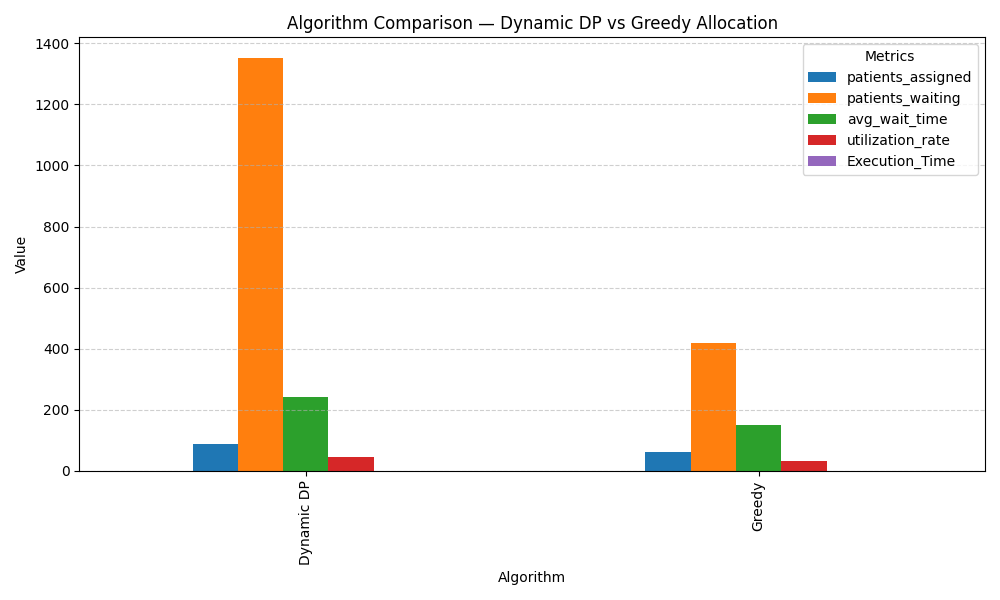
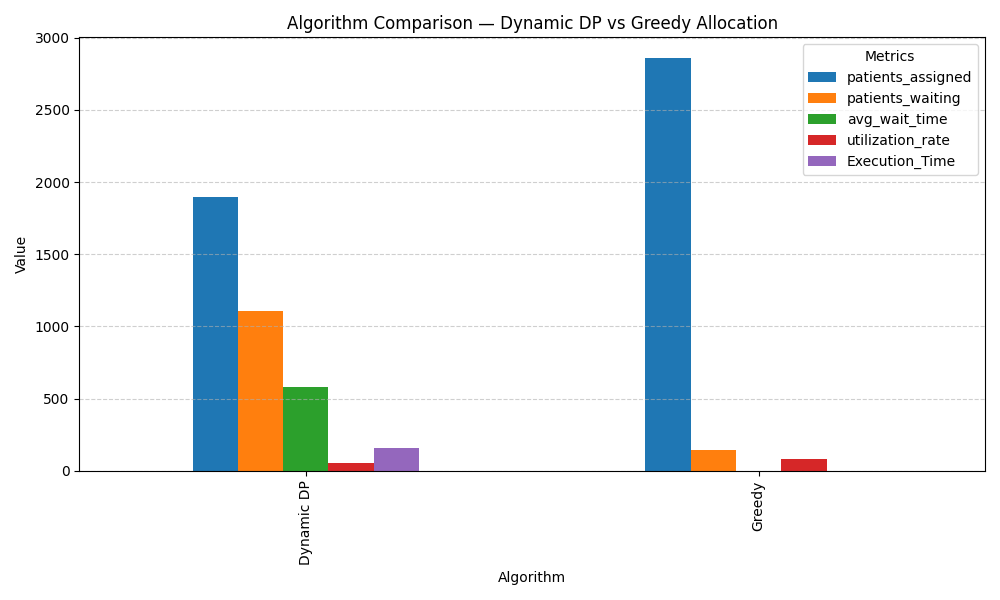
alpha added

diff --git a/compare_algos.py b/compare_algos.py
@@ -5,25 +5,19 @@ import matplotlib.pyplot as plt
 import time
 import sys
 
-# ============================================================
-# Force UTF-8 encoding on Windows terminals
-# ============================================================
+
 try:
     sys.stdout.reconfigure(encoding='utf-8')
 except Exception:
     pass
 
-# ============================================================
-# CONFIG — scripts and display names
-# ============================================================
+
 scripts = {
     "Dynamic DP": "dynamic_algo.py",
     "Greedy": "greedy_allocation.py"
 }
 
-# ============================================================
-# Function to run and parse script output
-# ============================================================
+
 def run_and_parse(script_name):
     print(f"\nRunning {script_name}...\n")
     start = time.time()
@@ -37,25 +31,24 @@ def run_and_parse(script_name):
             errors='ignore'
         )
         end = time.time()
-        exec_time = round(end - start, 2)
+        exec_time_sec = end - start
+        exec_time_ms = round(exec_time_sec * 1000, 2)  # convert to milliseconds
     except Exception as e:
         print(f"Error running {script_name}: {e}")
-        return {"Execution_Time": None}
+        return {"Execution_Time_ms": None}
 
     if result.returncode != 0:
         print(f"Error running {script_name} (exit code {result.returncode})")
         print("STDERR:\n", result.stderr)
         print("STDOUT:\n", result.stdout)
-        return {"Execution_Time": exec_time}
+        return {"Execution_Time_ms": exec_time_ms}
 
     output = result.stdout
 
-    # Extract key-value pairs like: patients_assigned : 47
     pattern = r"([a-zA-Z_]+)\s*:\s*([0-9.]+|N/A)"
     matches = re.findall(pattern, output)
     metrics = {k: v for k, v in matches}
 
-    # Convert numbers
     for k, v in metrics.items():
         if v != "N/A":
             try:
@@ -63,50 +56,52 @@ def run_and_parse(script_name):
             except ValueError:
                 pass
 
-    metrics["Execution_Time"] = exec_time
+    metrics["Execution_Time_ms"] = exec_time_ms
     return metrics
 
 
-# ============================================================
-# Run all algorithms
-# ============================================================
+# Run all scripts
 results = {}
 for name, script in scripts.items():
     results[name] = run_and_parse(script)
 
-# ============================================================
-# Create DataFrame of results
-# ============================================================
+# Create DataFrame
 df = pd.DataFrame(results).T
 print("\n=== COMPARISON TABLE ===\n")
 print(df.to_string())
 
-# Save CSV file
 df.to_csv("algorithm_comparison.csv", index=True)
 print("\nResults saved as 'algorithm_comparison.csv'")
 
-# ============================================================
-# Visualization
-# ============================================================
+# Metrics to plot
 metrics_to_plot = [
     "patients_assigned",
     "patients_waiting",
     "avg_wait_time",
     "utilization_rate",
     "total_urgency_served",
-    "Execution_Time"
+    "Execution_Time_ms"
 ]
 
 available = [m for m in metrics_to_plot if m in df.columns]
 df_plot = df[available]
 
+# Plot chart
 if not df_plot.empty:
-    df_plot.plot(kind="bar", figsize=(10,6))
+    ax = df_plot.plot(kind="bar", figsize=(10,6))
     plt.title("Algorithm Comparison — Dynamic DP vs Greedy Allocation")
     plt.ylabel("Value")
     plt.xlabel("Algorithm")
     plt.legend(title="Metrics")
     plt.grid(axis="y", linestyle="--", alpha=0.6)
+
+    # Annotate execution time bars at the bottom
+    for p in ax.patches:
+        height = p.get_height()
+        if p.get_x() % 1 == 0:  # rough check for bar
+            ax.annotate(f'{height}', (p.get_x() + p.get_width()/2, height),
+                        ha='center', va='bottom', fontsize=8, rotation=90)
+
     plt.tight_layout()
     plt.savefig("algorithm_comparison.png")
     plt.show()
@@ -114,9 +109,7 @@ if not df_plot.empty:
 else:
     print("\nNo valid metrics found to plot.")
 
-# ============================================================
-# Print time complexities and recommendations
-# ============================================================
+# Time complexities and insights
 print("\n=== TIME COMPLEXITIES ===")
 print("Dynamic DP : O(n × t) — depends on number of patients × time slots")
 print("Greedy     : O(n log n) — sorting + allocation decisions")

diff --git a/dynamic_algo.py b/dynamic_algo.py
@@ -9,15 +9,16 @@ warnings.filterwarnings("ignore")
 class TimeIndexedDP:
     """
     Time-indexed Dynamic Programming for patient scheduling.
-    Discretizes time into slots and tracks availability of resources (doctors, ICU).
+    Considers both urgency and wait time in allocation.
     """
 
-    def __init__(self, num_doctors=10, num_icu=5, total_time_hours=8, slot_minutes=15):
+    def __init__(self, num_doctors=10, num_icu=5, total_time_hours=8, slot_minutes=15, alpha=0.2):
         self.num_doctors = num_doctors
         self.num_icu = num_icu
         self.total_time_hours = total_time_hours
         self.slot_minutes = slot_minutes
         self.num_slots = (total_time_hours * 60) // slot_minutes
+        self.alpha = alpha  # weight for wait time in priority score
 
     def allocate_resources(self, df):
         """Main allocation logic using time-indexed DP."""
@@ -52,19 +53,24 @@ class TimeIndexedDP:
         return metrics, all_assignments
 
     def _run_dp_for_resource(self, patients, num_resources):
-        """Heuristic time-indexed DP for each resource type."""
+        """Time-indexed DP for each resource type considering urgency + wait time."""
         if len(patients) == 0:
             return [], 0.0
 
         resource_free_time = [0] * num_resources
         assignments, total_urgency = [], 0.0
 
-        # Prioritize by urgency
-        patient_indices = list(range(len(patients)))
-        patient_indices.sort(key=lambda i: -patients.loc[i, 'urgency_score'])
+        # Initially compute priority score
+        patients['priority_score'] = patients['urgency_score']  # initial
 
-        for patient_idx in patient_indices:
+        patient_indices = list(range(len(patients)))
+
+        while patient_indices:
+            # Sort patients dynamically by priority (urgency + alpha * expected wait)
+            patient_indices.sort(key=lambda i: -patients.loc[i, 'priority_score'])
+            patient_idx = patient_indices.pop(0)
             patient = patients.loc[patient_idx]
+
             arrival_slot = patient['arrival_slot']
             duration_slots = patient['duration_slots']
             urgency = patient['urgency_score']
@@ -93,6 +99,13 @@ class TimeIndexedDP:
                 resource_free_time[best_resource] = best_start_slot + duration_slots
                 total_urgency += urgency
 
+                # Update priority scores of remaining patients based on their expected wait
+                for i in patient_indices:
+                    p = patients.loc[i]
+                    # estimated wait = max(0, earliest free slot across resources - arrival slot)
+                    est_wait = max(0, min(resource_free_time) - p['arrival_slot'])
+                    patients.at[i, 'priority_score'] = p['urgency_score'] + self.alpha * est_wait
+
         return assignments, total_urgency
 
     def _calculate_metrics(self, df, assignments, sim_start, sim_end, total_urgency):
@@ -105,11 +118,8 @@ class TimeIndexedDP:
 
         for a in assignments:
             p = df[df['patient_id'] == a['patient_id']].iloc[0]
-
-            # ✅ Convert numpy.int64 → int to avoid TypeError
             start_slot = int(a['start_slot'])
             start_time = sim_start + timedelta(minutes=start_slot * int(self.slot_minutes))
-
             wait = (start_time - p['arrival_time']).total_seconds() / 60
             wait_times.append(max(0, wait))
             treatment_minutes[p['resource_type']] += float(a['duration_minutes'])
@@ -138,7 +148,6 @@ class TimeIndexedDP:
         }
 
 
-
 # ============================================================
 # MAIN EXECUTION
 # ============================================================
@@ -149,10 +158,10 @@ if __name__ == "__main__":
     print("Loaded dataset successfully!\n")
 
     print("=" * 60)
-    print("TIME-INDEXED DP (Urgency-Priority with Time Slots)")
+    print("TIME-INDEXED DP (Urgency + Wait-Time Priority)")
     print("=" * 60)
 
-    allocator = TimeIndexedDP(num_doctors=10, num_icu=5, total_time_hours=24, slot_minutes=15)
+    allocator = TimeIndexedDP(num_doctors=100, num_icu=50, total_time_hours=50, slot_minutes=15, alpha=0.3)
     metrics, _ = allocator.allocate_resources(df)
 
     for k, v in metrics.items():

diff --git a/greedy_allocation.py b/greedy_allocation.py
@@ -69,7 +69,7 @@ class GreedyAllocator:
         doctor_queue = PriorityQueue()
         icu_queue = PriorityQueue()
 
-        self.simulation_end = df['arrival_time'].min() + timedelta(hours=8)
+        self.simulation_end = df['arrival_time'].min() + timedelta(hours=50)
         df = df[df['arrival_time'] <= self.simulation_end].copy()
 
         current_time = df['arrival_time'].min()
@@ -157,7 +157,7 @@ if __name__ == "__main__":
     df = pd.read_csv("patient_data.csv")
     print("Loaded dataset successfully!")
 
-    allocator = GreedyAllocator(num_doctors=10, num_icu=5, total_time_hours=24)
+    allocator = GreedyAllocator(num_doctors=100, num_icu=50, total_time_hours=50)
     allocator.allocate_resources(df)
     metrics = allocator.get_metrics()
 
